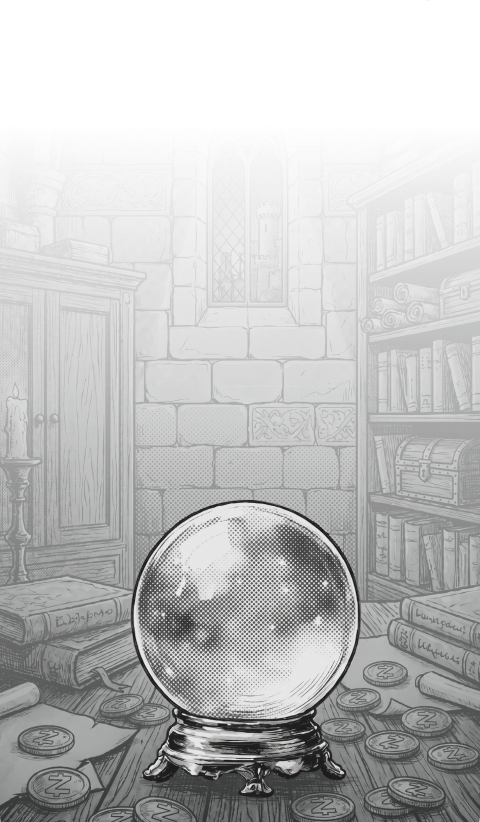
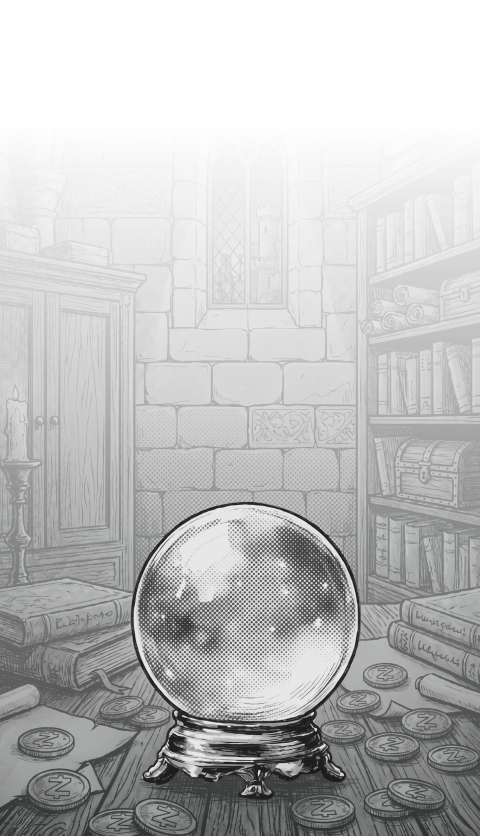
Update onboarding things to know screen from Figma

diff --git a/lib/src/features/onboarding/screens/things_to_know_screen.dart b/lib/src/features/onboarding/screens/things_to_know_screen.dart
@@ -3,6 +3,7 @@ import 'package:go_router/go_router.dart';
 
 import '../../../core/theme/app_theme.dart';
 import '../../../core/widgets/app_button.dart';
+import '../../../core/widgets/app_decorative_divider.dart';
 import '../../../core/widgets/app_icon.dart';
 import 'onboarding_split_view.dart';
 
@@ -21,84 +22,142 @@ class _Content extends StatelessWidget {
   @override
   Widget build(BuildContext context) {
     return const Column(
-      crossAxisAlignment: CrossAxisAlignment.start,
-      mainAxisAlignment: MainAxisAlignment.spaceBetween,
-      children: [_Title(), _BottomContent()],
+      children: [
+        _BackRow(),
+        Expanded(
+          child: Center(child: SizedBox(width: 588, child: _HeroLayout())),
+        ),
+      ],
     );
   }
 }
 
-class _Title extends StatelessWidget {
-  const _Title();
+class _BackRow extends StatelessWidget {
+  const _BackRow();
+
+  @override
+  Widget build(BuildContext context) {
+    final colors = context.colors;
+    return Align(
+      alignment: Alignment.centerLeft,
+      child: GestureDetector(
+        behavior: HitTestBehavior.opaque,
+        onTap: () => context.go(OnboardingStep.addressTypes.routePath),
+        child: Padding(
+          padding: const EdgeInsets.symmetric(vertical: AppSpacing.xxs),
+          child: Row(
+            mainAxisSize: MainAxisSize.min,
+            children: [
+              AppIcon(
+                AppIcons.chevronBackward,
+                size: AppIconSize.medium,
+                color: colors.text.accent,
+              ),
+              const SizedBox(width: AppSpacing.xxs),
+              Text(
+                'Back',
+                style: AppTypography.labelLarge.copyWith(
+                  color: colors.text.accent,
+                ),
+              ),
+            ],
+          ),
+        ),
+      ),
+    );
+  }
+}
+
+class _HeroLayout extends StatelessWidget {
+  const _HeroLayout();
+
+  @override
+  Widget build(BuildContext context) {
+    return const Column(
+      children: [
+        Expanded(child: Center(child: _HeroBlock())),
+        _ButtonStack(),
+        SizedBox(height: AppSpacing.s),
+      ],
+    );
+  }
+}
+
+class _HeroBlock extends StatelessWidget {
+  const _HeroBlock();
 
   @override
   Widget build(BuildContext context) {
     final colors = context.colors;
     return Column(
-      crossAxisAlignment: CrossAxisAlignment.start,
+      mainAxisSize: MainAxisSize.min,
       children: [
         Text(
-          'Things to know',
+          'Things to Know',
           style: AppTypography.displaySmall.copyWith(color: colors.text.accent),
+          textAlign: TextAlign.center,
         ),
-        const SizedBox(height: AppSpacing.sm),
+        const SizedBox(height: AppSpacing.s),
         Text(
           'Useful tips before you started.',
           style: AppTypography.bodyMedium.copyWith(color: colors.text.accent),
+          textAlign: TextAlign.center,
         ),
+        const SizedBox(height: AppSpacing.s),
+        const AppDecorativeDivider(),
+        const SizedBox(height: AppSpacing.s),
+        const _InfoColumns(),
       ],
     );
   }
 }
 
-class _BottomContent extends StatelessWidget {
-  const _BottomContent();
+class _InfoColumns extends StatelessWidget {
+  const _InfoColumns();
 
   @override
   Widget build(BuildContext context) {
-    return Column(
-      crossAxisAlignment: CrossAxisAlignment.start,
-      children: const [
-        _CardsRow(),
-        SizedBox(height: AppSpacing.base),
-        _ActionRow(),
-      ],
+    final colors = context.colors;
+    return Padding(
+      padding: const EdgeInsets.all(AppSpacing.sm),
+      child: Row(
+        crossAxisAlignment: CrossAxisAlignment.start,
+        children: [
+          const Expanded(
+            child: _InfoColumn(
+              title: 'Time to sync',
+              body:
+                  'Your wallet syncs directly with the Zcash network instead '
+                  'of relying on a server. This protects your privacy, but '
+                  'takes a moment. Your funds are safe while the app catches '
+                  'up.',
+              iconName: AppIcons.time,
+            ),
+          ),
+          Container(
+            width: 1,
+            height: 140,
+            margin: const EdgeInsets.symmetric(horizontal: AppSpacing.sm),
+            color: colors.text.primary.withValues(alpha: 0.2),
+          ),
+          const Expanded(
+            child: _InfoColumn(
+              title: 'How to keep privacy',
+              body:
+                  "Some exchanges can't send to shielded addresses. If you're "
+                  'withdrawing from an exchange, use your transparent address. '
+                  'You can shield your ZEC after it arrives.',
+              iconName: AppIcons.shieldKeyholeOutline,
+            ),
+          ),
+        ],
+      ),
     );
   }
 }
 
-class _CardsRow extends StatelessWidget {
-  const _CardsRow();
-
-  @override
-  Widget build(BuildContext context) {
-    return Row(
-      crossAxisAlignment: CrossAxisAlignment.start,
-      children: const [
-        _InfoCard(
-          title: 'How to use Shielded Address',
-          body:
-              "Some exchanges can't send to shielded addresses. If you're "
-              'withdrawing from an exchange, use your transparent address. '
-              'You can shield your ZEC after it arrives.',
-          iconName: AppIcons.eye,
-        ),
-        SizedBox(width: AppSpacing.s),
-        _InfoCard(
-          title: 'Time to sync',
-          body:
-              'Your wallet syncs directly with the Zcash network instead of '
-              'relying on a server. This protects your privacy, but takes a '
-              'moment. Your funds are safe while the app catches up.',
-          iconName: AppIcons.time,
-        ),
-      ],
-    );
-  }
-}
-
-class _InfoCard extends StatelessWidget {
-  const _InfoCard({
+class _InfoColumn extends StatelessWidget {
+  const _InfoColumn({
     required this.title,
     required this.body,
     required this.iconName,
@@ -111,78 +170,52 @@ class _InfoCard extends StatelessWidget {
   @override
   Widget build(BuildContext context) {
     final colors = context.colors;
-    return Container(
-      width: 288,
-      height: 220,
-      padding: const EdgeInsets.all(AppSpacing.sm),
-      decoration: BoxDecoration(
-        color: colors.background.base,
-        borderRadius: BorderRadius.circular(AppRadii.medium),
-      ),
-      child: Column(
-        crossAxisAlignment: CrossAxisAlignment.start,
-        mainAxisAlignment: MainAxisAlignment.spaceBetween,
-        children: [
-          Row(
-            mainAxisAlignment: MainAxisAlignment.end,
-            children: [AppIcon(iconName, size: 32, color: colors.icon.regular)],
-          ),
-          Column(
-            crossAxisAlignment: CrossAxisAlignment.start,
-            children: [
-              SizedBox(
-                width: 256,
-                child: Text(
-                  title,
-                  style: AppTypography.headlineSmall.copyWith(
-                    color: colors.text.accent,
-                  ),
+    return Column(
+      crossAxisAlignment: CrossAxisAlignment.start,
+      children: [
+        Row(
+          crossAxisAlignment: CrossAxisAlignment.start,
+          children: [
+            Expanded(
+              child: Text(
+                title,
+                style: AppTypography.bodyMediumStrong.copyWith(
+                  color: colors.text.accent,
                 ),
               ),
-              const SizedBox(height: AppSpacing.xs),
-              SizedBox(
-                width: 256,
-                child: Text(
-                  body,
-                  style: AppTypography.bodyMedium.copyWith(
-                    color: colors.text.primary,
-                  ),
-                ),
-              ),
-            ],
+            ),
+            const SizedBox(width: AppSpacing.xxs),
+            AppIcon(iconName, size: 20, color: colors.text.brandPurple),
+          ],
+        ),
+        const SizedBox(height: AppSpacing.sm),
+        SizedBox(
+          width: 256,
+          child: Text(
+            body,
+            style: AppTypography.bodyMedium.copyWith(
+              color: colors.text.primary,
+            ),
           ),
-        ],
-      ),
+        ),
+      ],
     );
   }
 }
 
-class _ActionRow extends StatelessWidget {
-  const _ActionRow();
+class _ButtonStack extends StatelessWidget {
+  const _ButtonStack();
+
+  static const double _buttonWidth = 256;
 
   @override
   Widget build(BuildContext context) {
-    return Row(
-      mainAxisSize: MainAxisSize.min,
-      children: [
-        AppButton(
-          onPressed: () =>
-              context.go(OnboardingStep.secretPassphrase.routePath),
-          variant: AppButtonVariant.primary,
-          minWidth: 196,
-          trailing: const AppIcon(AppIcons.chevronForward),
-          child: const Text('Generate my wallet'),
-        ),
-        const SizedBox(width: AppSpacing.xs),
-        AppButton(
-          // TODO(onboarding): wire this to an external Zcash resource once
-          // the app has a shared URL-launch path.
-          onPressed: () {},
-          variant: AppButtonVariant.ghost,
-          trailing: const AppIcon(AppIcons.link),
-          child: const Text('Learn more about Zcash'),
-        ),
-      ],
+    return AppButton(
+      onPressed: () => context.go(OnboardingStep.secretPassphrase.routePath),
+      variant: AppButtonVariant.primary,
+      minWidth: _buttonWidth,
+      trailing: const AppIcon(AppIcons.chevronForward),
+      child: const Text('Good to know'),
     );
   }
 }